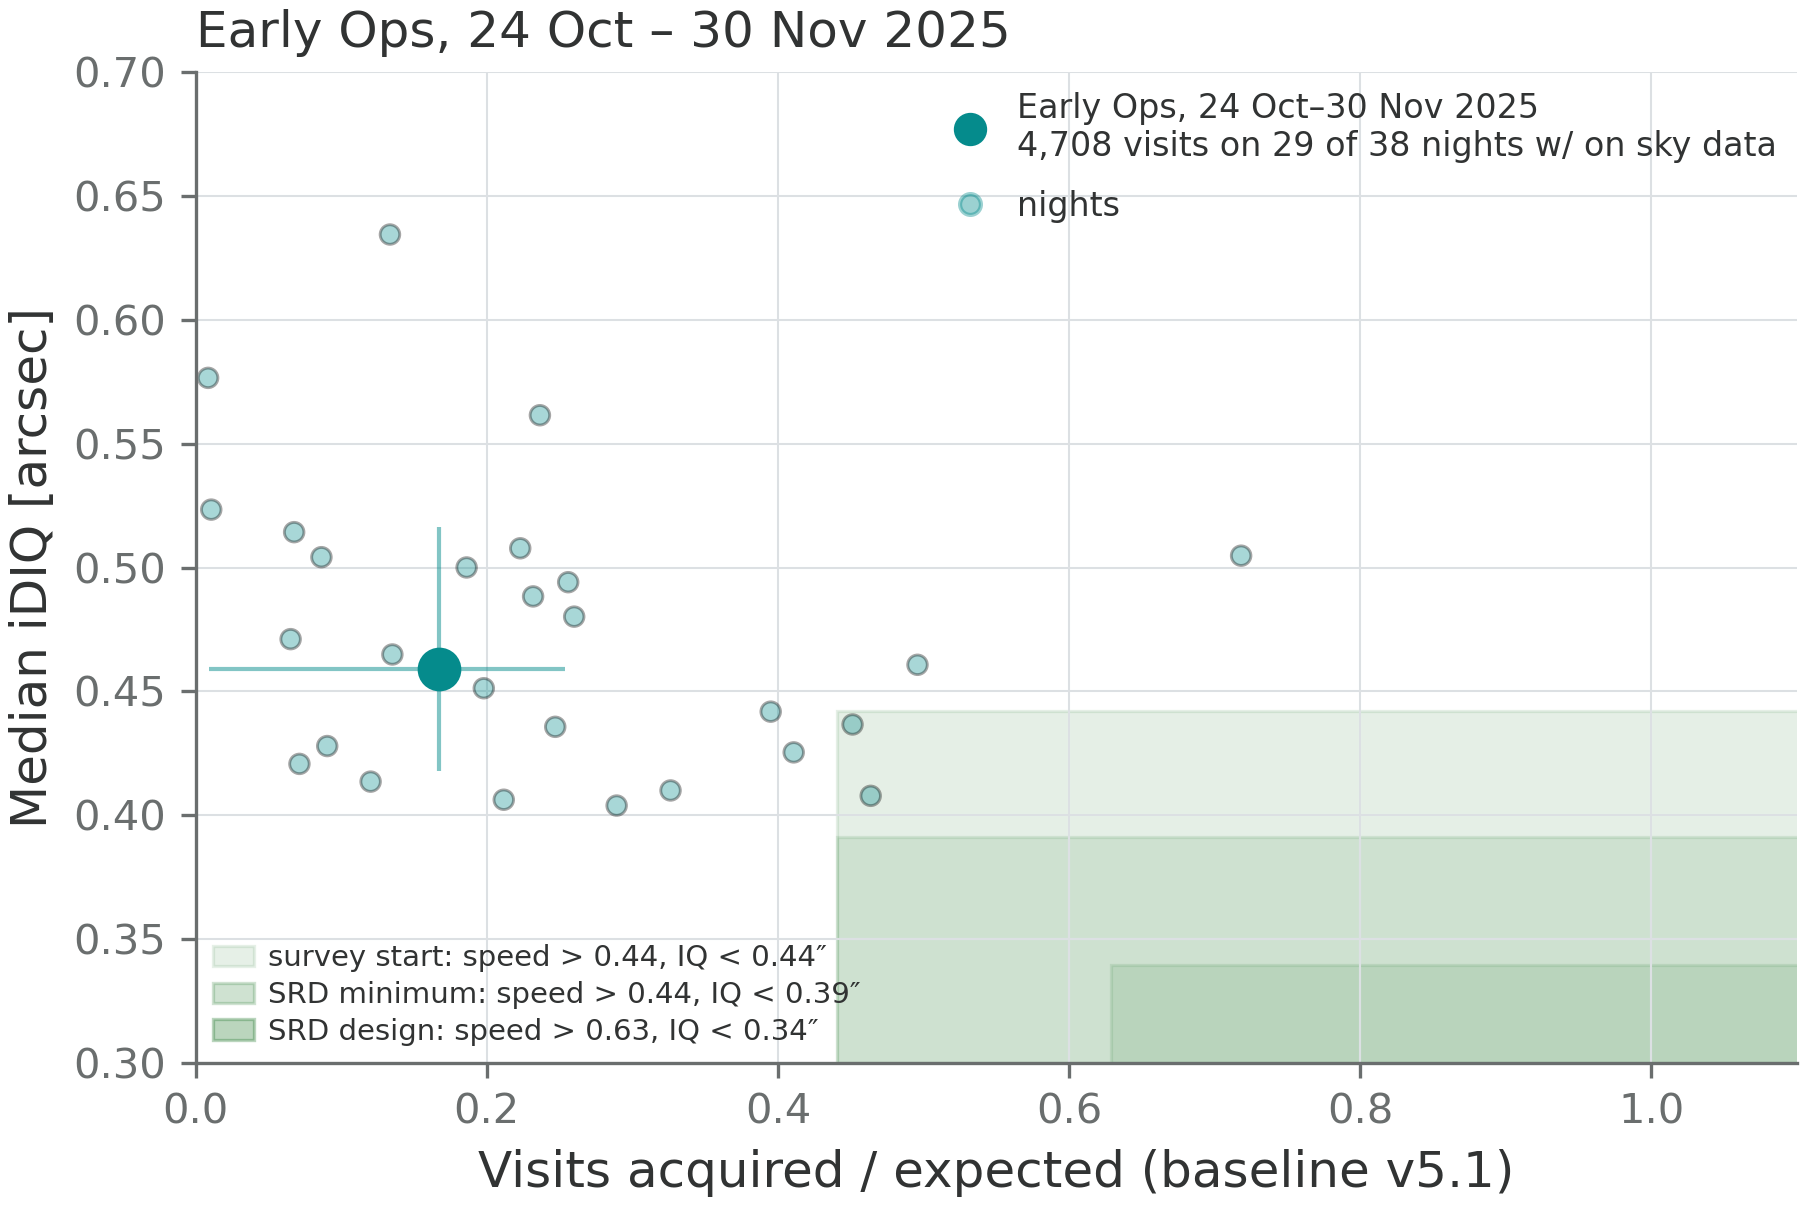
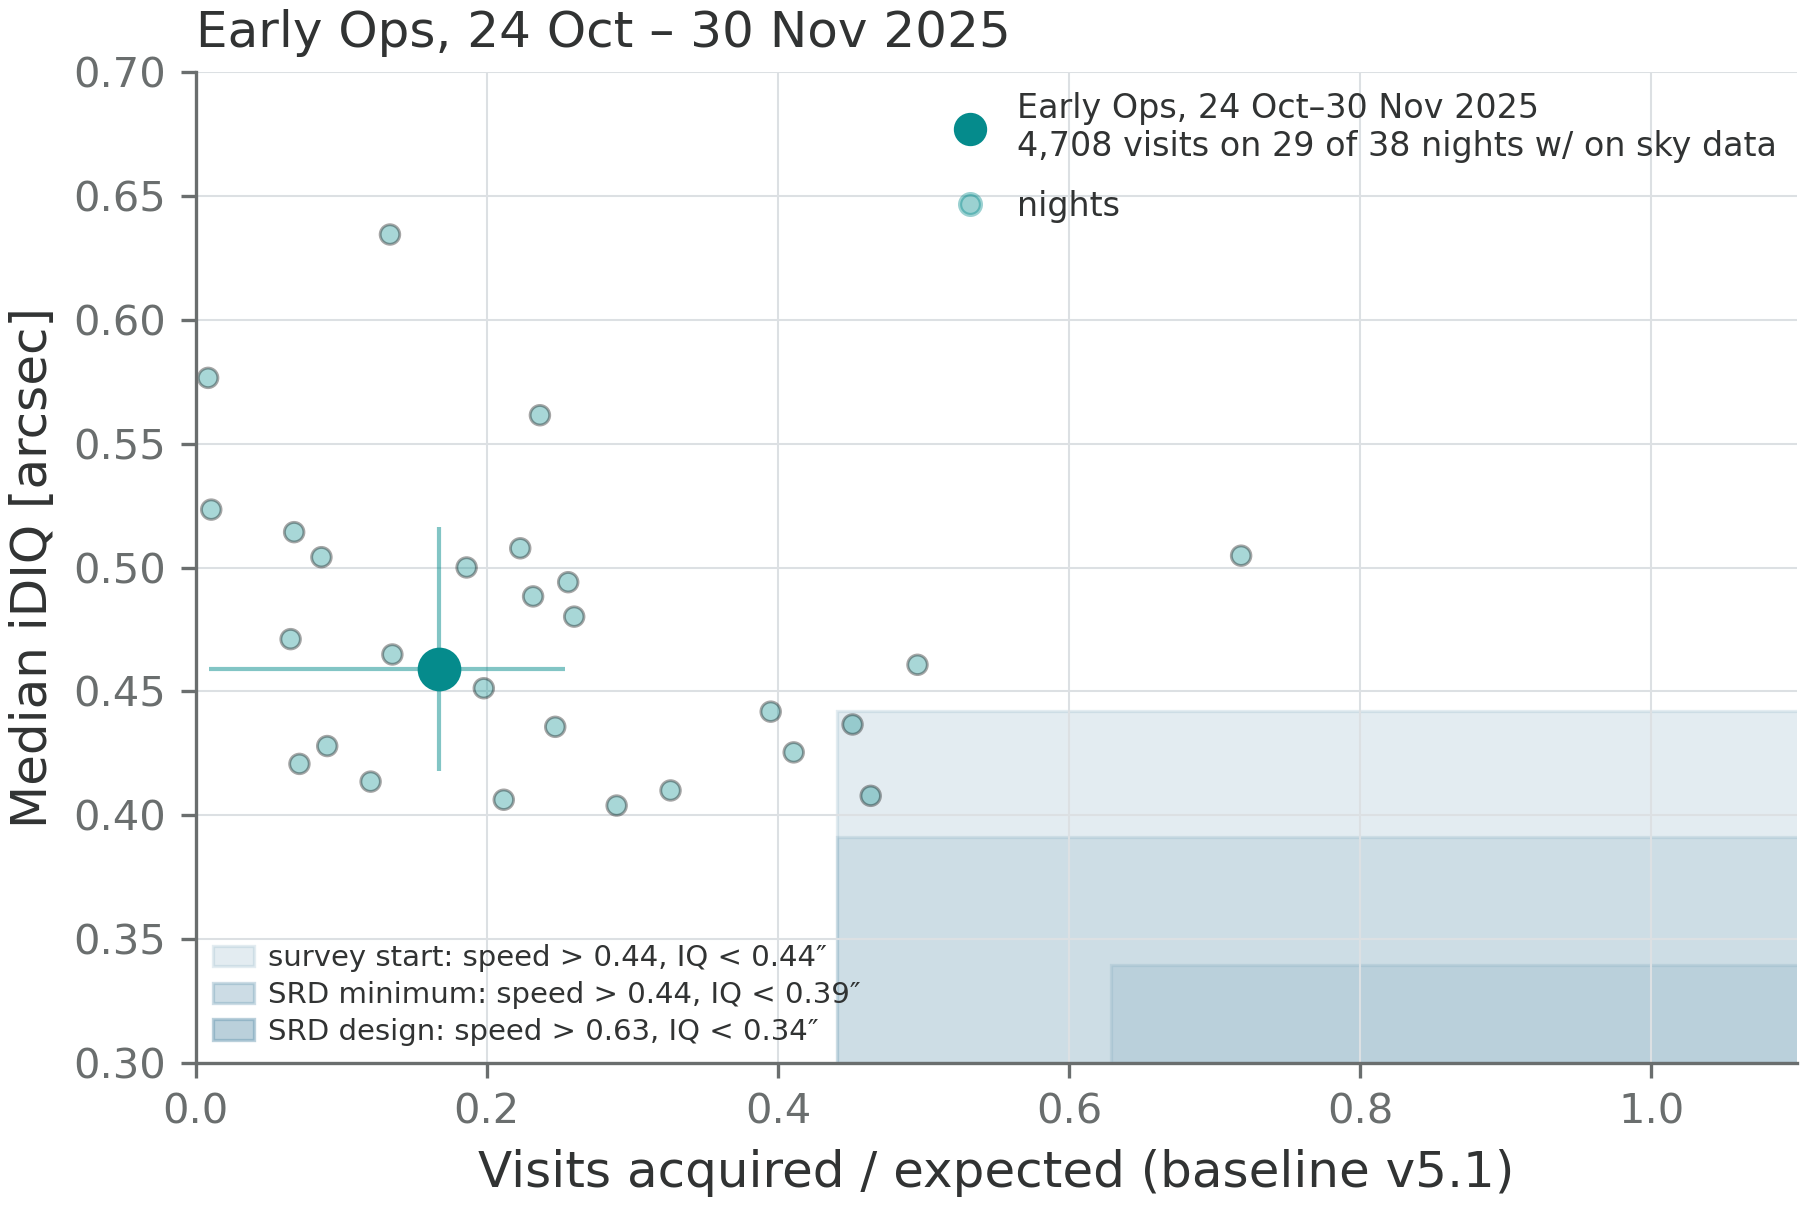
speed vs IQ: blue-grey requirement bands, dark teal LSST points
The three nested requirement regions (survey start, SRD minimum, SRD
design) were the green CATEGORICAL[4] slot at alpha 0.10, which read as a
sixth data category and, at that alpha, gave three levels no one could
tell apart on a projector. They are now DECK["requirement"] #6596AF at
BOX_ALPHA 0.18, so the stack renders #e0eaef / #cbdbe4 / #bacfdd on
white. The hue is blue-grey at 200 deg: neutral enough to stay
background, saturated enough not to look like dirty grey once the alpha
washes it out. Alpha is bumped in both static.py and interactive.py so
the two versions cannot drift.

The LSST period points move from CATEGORICAL[2] purple to the LSST@LATAM
deck's science colour #024243, so the figure matches the slides it
appears on; Early Ops keeps the brand teal. Nights, whiskers and the
connecting arrow follow their period, so no purple is left in the figure
(the unrelated ROST band still uses it).

All 12 committed static PNGs are regenerated. The interactive HTMLs are
not: ohlp/interactive.py reads the same palette, so re-running
04_interactive.ipynb picks the change up.

rubin_palette.py also carries the earlier DECK teal remapping for the
LATAM deck (engineering -> brand teal, alignment -> light teal) and the
comment block explaining the dark/mid/light family.

Generated with AI

Changed region(s): [[0.5891, 0.7977, 1.0, 0.8897], [0.093, 0.8284, 0.155, 0.859]]

diff --git a/rubin_color_pallete/rubin_palette.py b/rubin_color_pallete/rubin_palette.py
@@ -133,13 +133,23 @@ SEQUENTIAL_TEAL = ["#E6F4F4", "#9FDADB", "#3DAEB0", "#058B8C", "#256060", "#0C4A
 # hexes: ``simonyi_time_loss`` (B1) and ``night_budget`` (B12/B13) still carry
 # their own copies, made before this dict existed. Use ``CATEGORICAL`` for
 # anything that is not a figure for that deck.
+#
+# The three on-sky categories are one teal family, dark -> mid -> light, so they
+# read as a group against the accent and the two greys (Bruno, 2026-11-04):
+# science keeps the darkest teal, engineering takes the brand teal that was
+# alignment's, alignment moves to a light teal. This is the mapping every talk
+# figure must use (B1 six-bin, B10b, B12) so they cannot drift apart.
 DECK = {
     "science": "#024243",  # science / survey visits (slide 5 legend)
-    "engineering": "#045B5C",
-    "alignment": "#058B8C",
+    "engineering": "#058B8C",  # brand teal; was #045B5C before 2026-11-04
+    "alignment": "#7FCAC3",  # light teal; was #058B8C before 2026-11-04
     "accent": "#F5A623",  # "Fault + idle" on slide 2; the deck's only accent
     "maintenance": "#546E7A",
     "weather": "#9BAEB8",
+    # Requirement / goal regions, drawn as nested translucent bands. Blue-grey
+    # at hue 200 deg: neutral enough to stay background, saturated enough not to
+    # read as dirty grey once the alpha washes the hue out (Bruno, 2026-11-04).
+    "requirement": "#6596AF",
     "band": "#D9F7F7",  # pale teal fill for an interquartile band
     "median": "#595959",  # median rules and their labels
     "reference": "#BFBFBF",  # grid, date markers and other reference lines

diff --git a/observatory_high_level_performance/ohlp/style.py b/observatory_high_level_performance/ohlp/style.py
@@ -22,7 +22,7 @@ __all__ = ["rp", "COLORS", "time_colors", "paper_rc", "talk_rc"]
 
 #: Roles -> palette names. Change the role mapping here, never the hex.
 COLORS = {
-    "goal_region": rp.CATEGORICAL[4],  # green slot
+    "goal_region": rp.DECK["requirement"],  # blue-grey, three stacked shades
     "star": rp.CATEGORICAL[1],  # orange slot
     "star_edge": rp.NEUTRALS["ink_secondary"],
     "rost_band": rp.CATEGORICAL[2],  # purple slot

diff --git a/observatory_high_level_performance/ohlp/interactive.py b/observatory_high_level_performance/ohlp/interactive.py
@@ -47,7 +47,8 @@ from .style import COLORS, time_colors
 __all__ = ["build_figure", "save_html"]
 
 #: Fill alpha of each requirement box; the overlap of n boxes shows as 1-(1-a)^n.
-BOX_ALPHA = 0.10
+#: Kept equal to ``ohlp.static.BOX_ALPHA`` so the two versions match.
+BOX_ALPHA = 0.18
 
 MARKER_EARLY = "circle"
 MARKER_LSST = "square"

diff --git a/observatory_high_level_performance/ohlp/static.py b/observatory_high_level_performance/ohlp/static.py
@@ -34,7 +34,8 @@ Y_LABELS_SHORT = {
 }
 
 #: Fill alpha of each requirement box; the overlap of n boxes shows as 1-(1-a)^n.
-BOX_ALPHA = 0.10
+#: 0.18 (was 0.10 until 2026-11-04) so the three levels separate on a slide.
+BOX_ALPHA = 0.18
 
 MARKER_EARLY = "o"
 MARKER_LSST = "s"

diff --git a/observatory_high_level_performance/README.md b/observatory_high_level_performance/README.md
@@ -25,7 +25,7 @@ are counted, never removed (§5):
 | Version | File | Status |
 |---|---|---|
 | Interactive (Bokeh) | `04_interactive.ipynb` → `figures/speed_vs_iq_interactive_<windows|quarterly|monthly>_<min>-<max>.html` | done |
-| Static PNG (6×4 in, 12 pt labels, `TRANSPARENT` flag, optional `TITLE`, optional star (`show_star`; `_nostar` file suffix, kept for the Early Ops and three-period figures), cropped to contents; requirement-box legend lower left at 7 pt, `box_legend_loc`; x label names the baseline, `ref.BASELINE_LABEL`) | `03_static_png.ipynb` → `figures/speed_vs_iq_static_early_ops_octnov_20251024-20251130.png` (single Early Ops summary for the RASAB slide; titled, window described in the legend at 8 pt with "w/ on sky data"; `_white` variant too), `figures/speed_vs_iq_static_early_ops_vs_lsst_20251024-20260714.png` (Early Ops in teal + LSST on-sky stretch in purple, default; talk version; `_white` suffix = opaque background), `figures/speed_vs_iq_static_three_periods_20251024-20261022.png` (three points: Early Ops first three months in teal, LSST on sky and LSST to date in purple, the latter hollow; legend at 8 pt with "w/ on sky data"; `_white` variant too; §5 "Three periods") or `..._<windows|quarterly|monthly>_<min>-<max>.png` (direct labels per period) | done (2026-10-17) |
+| Static PNG (6×4 in, 12 pt labels, `TRANSPARENT` flag, optional `TITLE`, optional star (`show_star`; `_nostar` file suffix, kept for the Early Ops and three-period figures), cropped to contents; requirement-box legend lower left at 7 pt, `box_legend_loc`; x label names the baseline, `ref.BASELINE_LABEL`) | `03_static_png.ipynb` → `figures/speed_vs_iq_static_early_ops_octnov_20251024-20251130.png` (single Early Ops summary for the RASAB slide; titled, window described in the legend at 8 pt with "w/ on sky data"; `_white` variant too), `figures/speed_vs_iq_static_early_ops_vs_lsst_20251024-20260714.png` (Early Ops in brand teal + LSST on-sky stretch in dark teal, default; talk version; `_white` suffix = opaque background), `figures/speed_vs_iq_static_three_periods_20251024-20261022.png` (three points: Early Ops first three months in teal, LSST on sky and LSST to date in dark teal, the latter hollow; legend at 8 pt with "w/ on sky data"; `_white` variant too; §5 "Three periods") or `..._<windows|quarterly|monthly>_<min>-<max>.png` (direct labels per period) | done (2026-10-17) |
 | Static, talk (16:9, build frames) | `03_static_talk.ipynb` | pending |
 | Static, paper (AAS column, PDF + PNG) | `02_static_paper.ipynb` | pending |
 
@@ -147,7 +147,7 @@ nights, 152 with survey visits, 64 145 survey visits, 21 weather nights (all aft
   Lynne's figure 2026-10-17: the ten nightly points coincide; her near-zero points are the closed
   nights, which her notebook draws at the period-median iDIQ plus jitter and ours omits (no IQ
   exists for them); both include them in the speed. Her aggregate is the mean of nightly ratios,
-  ours the ratio of sums; for this window they agree to 0.001. Early Ops keeps the brand teal, LSST is `CATEGORICAL[2]` purple (nights and
+  ours the ratio of sums; for this window they agree to 0.001. Early Ops keeps the brand teal, LSST is `DECK["science"]` dark teal (nights and
   whiskers in the same hue), passed to `build_static_figure(colors=...)`. Each window is described in
   the legend (`labels_in_legend=True`), so no direct labels are drawn. Saved to
   `data/windows_early_ops_vs_lsst_20251024_20260714.{parquet,csv}`.
@@ -160,8 +160,8 @@ nights, 152 with survey visits, 64 145 survey visits, 21 weather nights (all aft
   | Window | Colour, marker | Nights with visits / calendar | Visits / expected | Speed (nightly IQR) | iDIQ median [IQR] | Weather nights |
   |---|---|---|---|---|---|---|
   | Early Ops, 20251024–20260123 (first three months) | teal circle, `rp.TEAL` | 63 / 92 | 13 312 / 65 548 | 0.20 (0.00–0.38) | 0.494″ [0.452–0.539] | 0 (no state yet) |
-  | LSST on sky, 20260629–20260713 (`ref.DAY_OBS_LAST_SURVEY_VISIT`) | purple square, `rp.CATEGORICAL[2]` | 10 / 15 | 7267 / 16 201 | 0.45 (0.00–0.74) | 0.414″ [0.385–0.449] | 2 |
-  | LSST to date, 20260629–20261022 | hollow purple square (`hollow=[False, False, True]`) | 10 / 116 | 7267 / 112 384 | 0.07 (0.00–0.00) | 0.414″ [0.385–0.449] | 8 |
+  | LSST on sky, 20260629–20260713 (`ref.DAY_OBS_LAST_SURVEY_VISIT`) | dark teal square, `rp.DECK["science"]` | 10 / 15 | 7267 / 16 201 | 0.45 (0.00–0.74) | 0.414″ [0.385–0.449] | 2 |
+  | LSST to date, 20260629–20261022 | hollow dark teal square (`hollow=[False, False, True]`) | 10 / 116 | 7267 / 112 384 | 0.07 (0.00–0.00) | 0.414″ [0.385–0.449] | 8 |
 
   The on-sky window ends on 20260713 and so differs from the LSST window of the Early Ops vs. LSST
   figure (ends 20260714 to match Lynne's range): speed 0.45 instead of 0.42. Early Ops keeps the brand
@@ -231,8 +231,8 @@ to (0.63, 0.34″).
 | Role | Palette name |
 |---|---|
 | time (month order) | `teal_cmap()` from `SEQUENTIAL_TEAL`, light = Oct 2025, dark = latest; lightness carries order in grayscale |
-| Early Ops vs. LSST (two-point static) | `TEAL` for Early Ops, `CATEGORICAL[2]` purple for LSST (`colors=` override in `ohlp.static`) |
-| requirement regions | `CATEGORICAL[4]` green, each box at alpha 0.10 (`BOX_ALPHA`); overlap gives 0.10 / 0.19 / 0.27 for start / minimum / design |
+| Early Ops vs. LSST (two- and three-point static) | `TEAL` brand teal for Early Ops, `DECK["science"]` `#024243` dark teal for LSST (`colors=` override in `ohlp.static`). Purple `CATEGORICAL[2]` until 2026-11-04: Bruno moved the LSST points onto the LSST@LATAM deck's science colour so the figure matches the slides it appears on |
+| requirement regions | `DECK["requirement"]` blue-grey `#6596AF`, each box at alpha 0.18 (`BOX_ALPHA`); overlap gives 0.18 / 0.33 / 0.45 for start / minimum / design, i.e. `#e0eaef` / `#cbdbe4` / `#bacfdd` on white. Green `CATEGORICAL[4]` at alpha 0.10 until 2026-11-04: Bruno moved the regions off the categorical palette so they read as background rather than a sixth category, and raised the alpha because at 0.10 the three levels were indistinguishable on a projector |
 | LSST = 1 star (static PNGs label it "LSST 10 year Average", Bruno 2026-10-22, and can omit it with `build_static_figure(show_star=False)`; the interactive version keeps "LSST = 1") | `CATEGORICAL[1]` orange, edge `NEUTRALS["ink_secondary"]` |
 | ROST band | `CATEGORICAL[2]` purple, alpha 0.10, dotted edge |
 | path, text, gap note | `NEUTRALS` |
